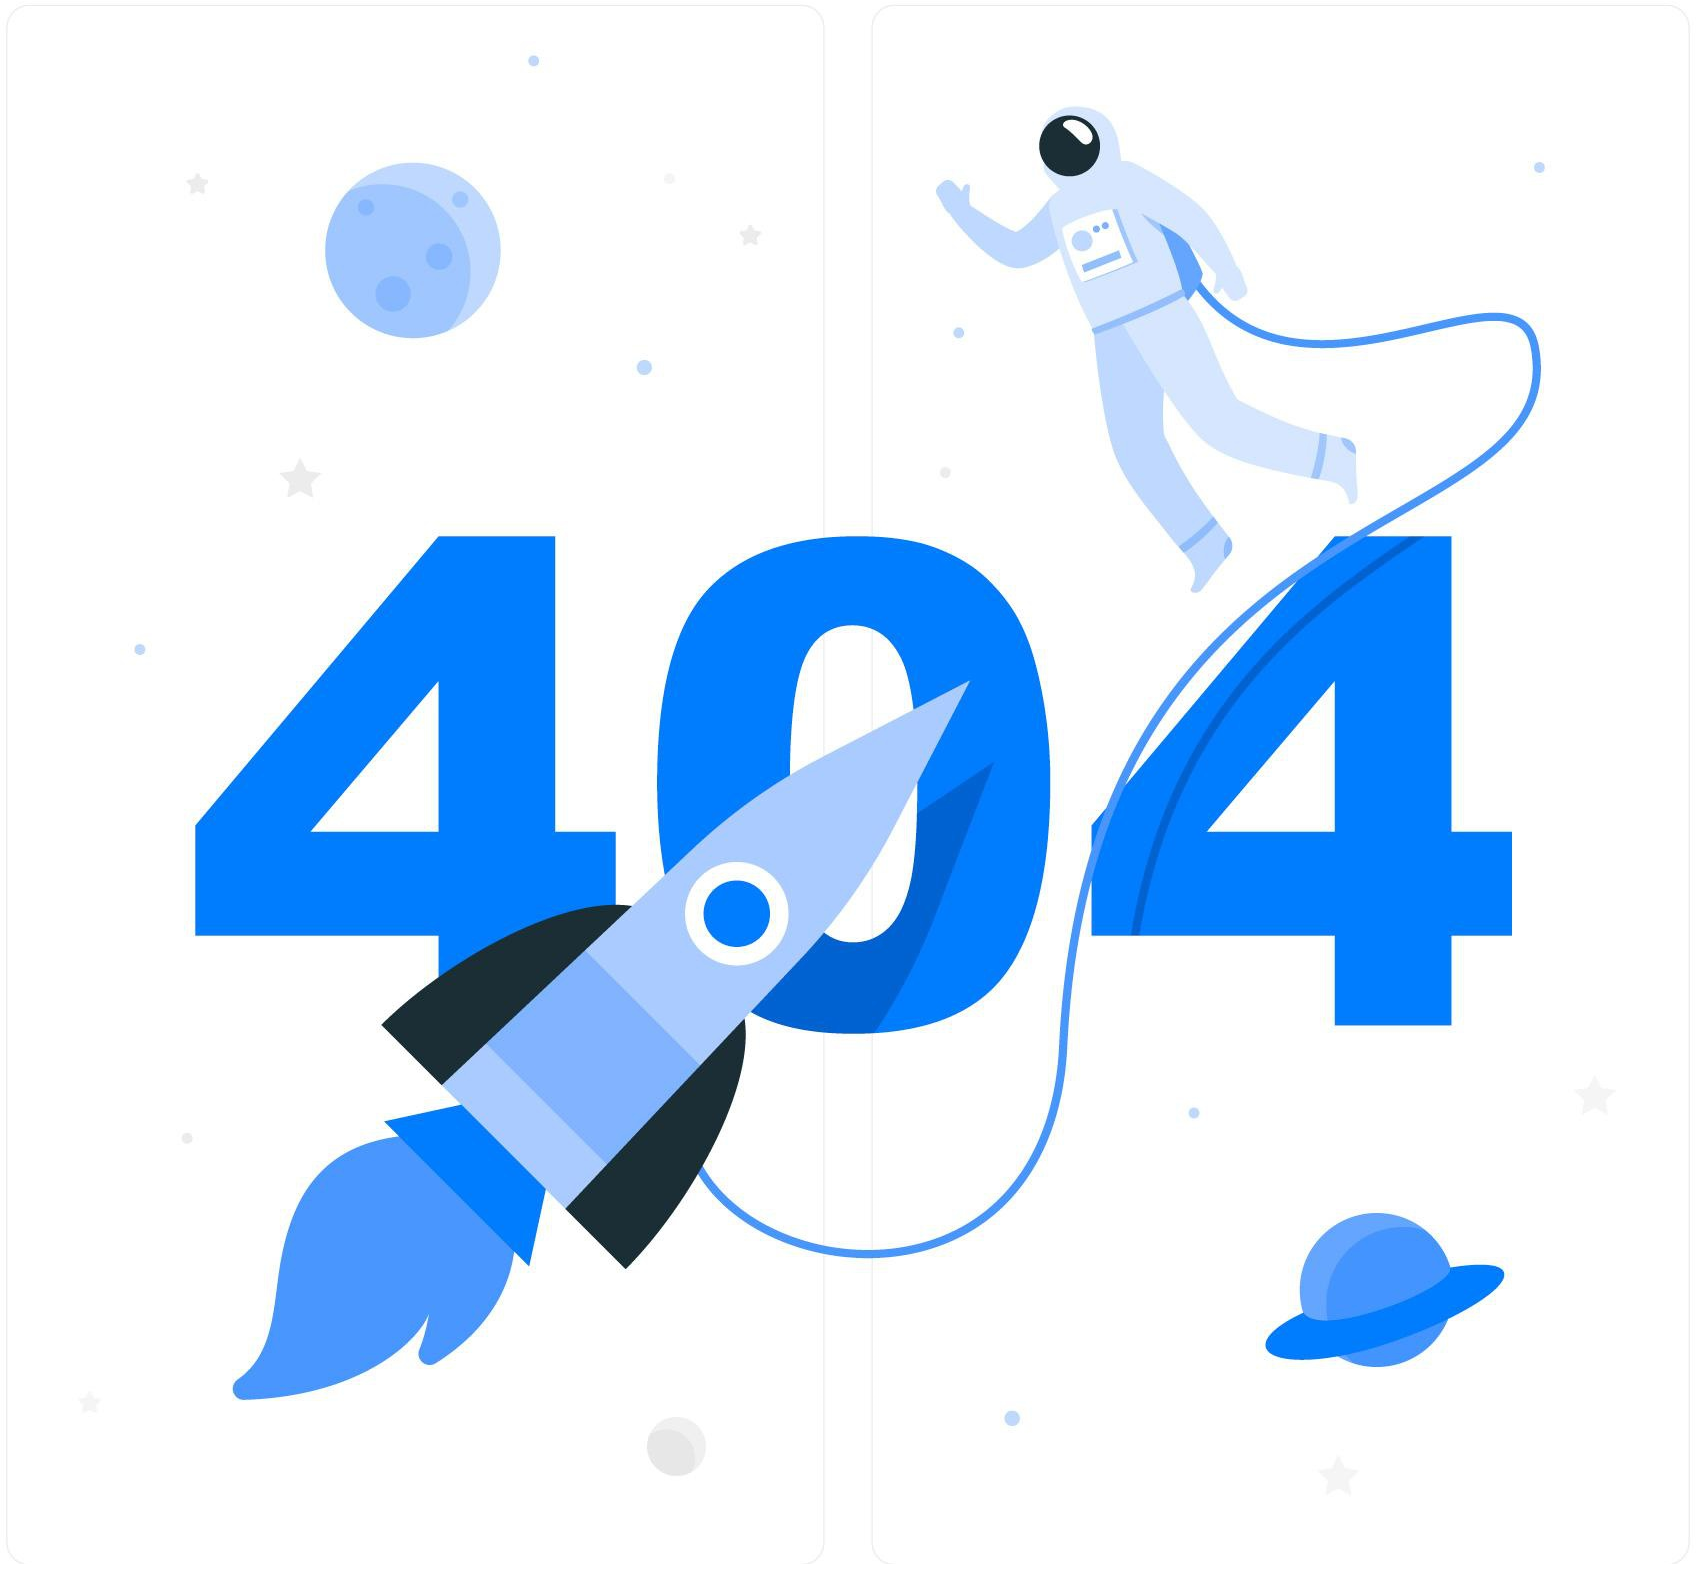
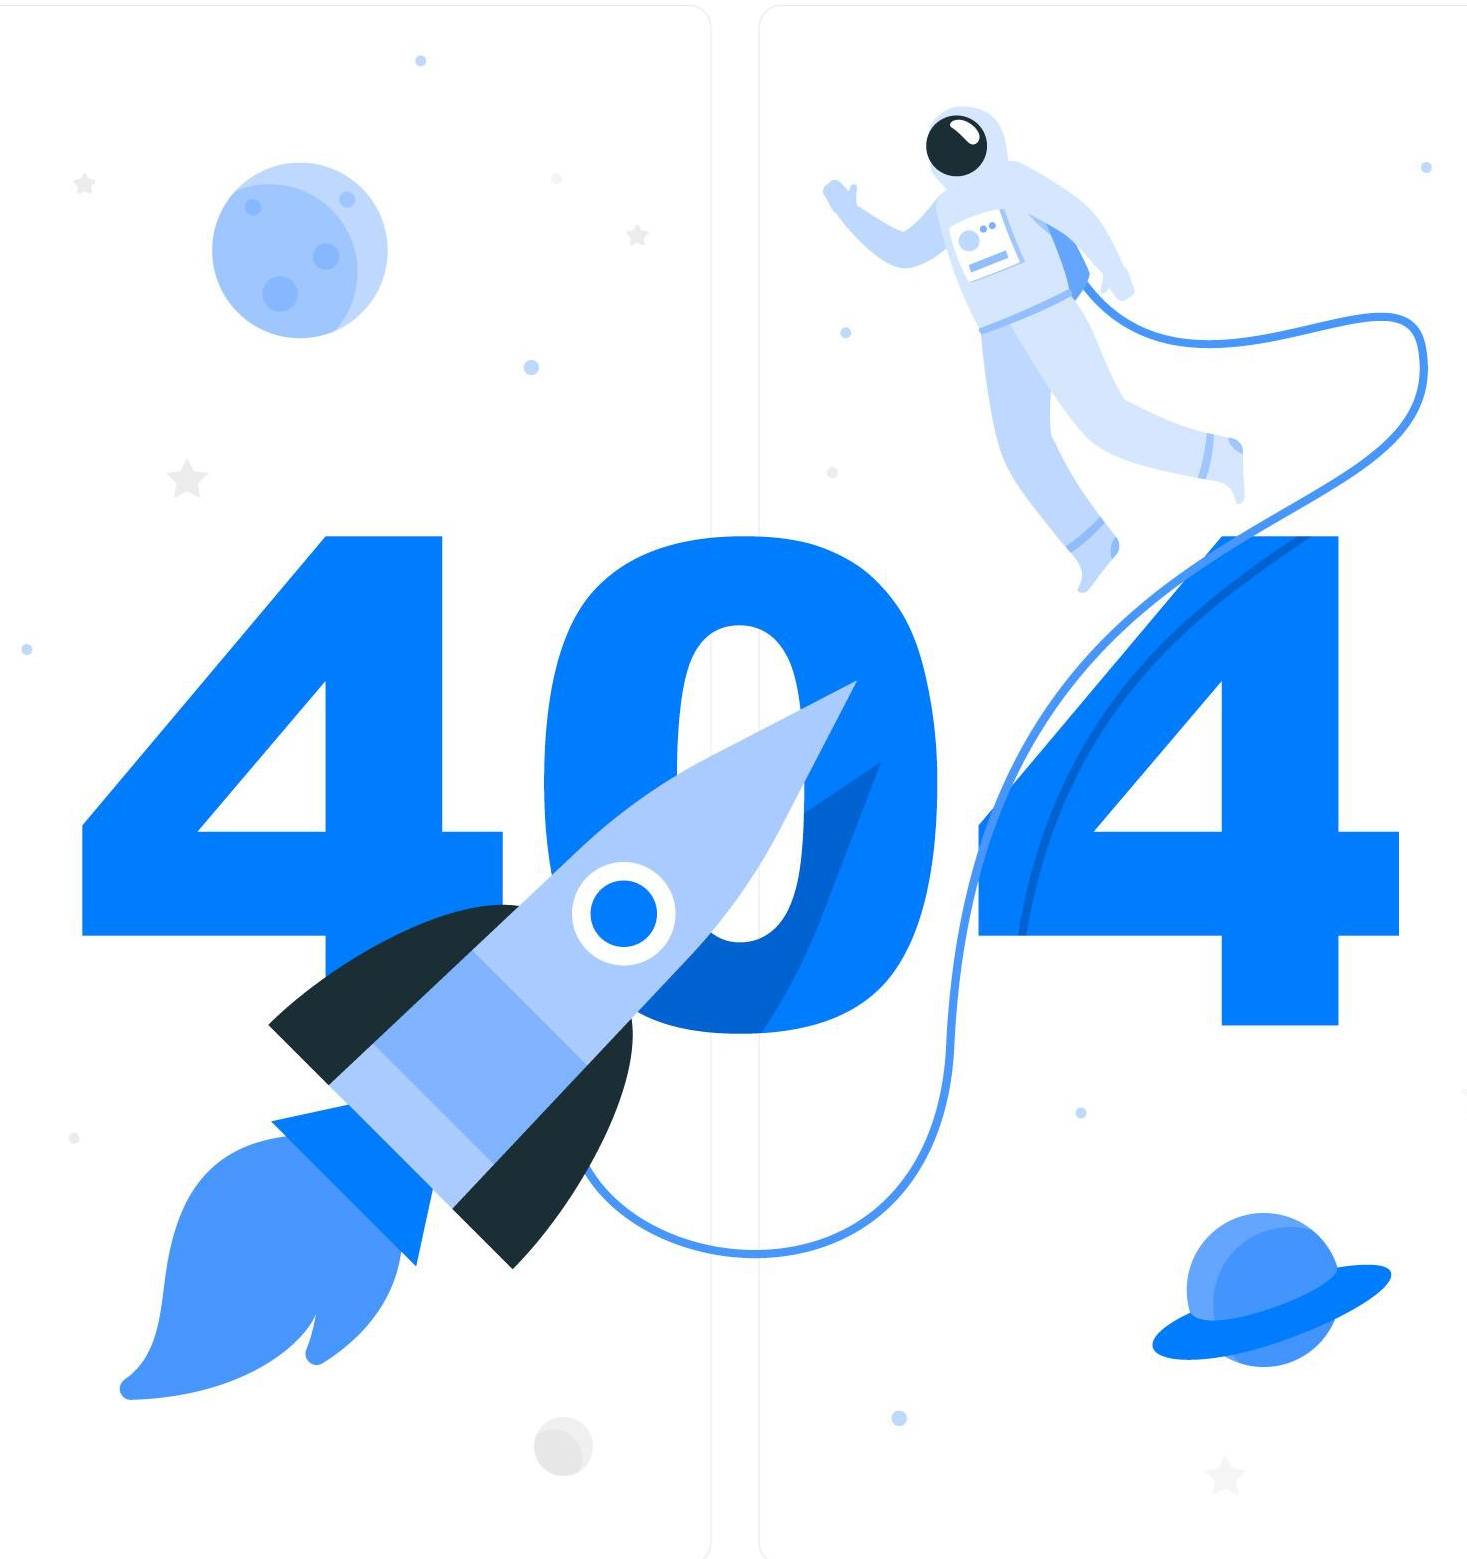
notFound page style changed2

diff --git a/src/pages/NotFound.jsx b/src/pages/NotFound.jsx
@@ -6,7 +6,7 @@ function NotFound() {
   return (
     <>
       <Navbar />
-      <div className="mx-auto mt-5 flex max-h-dvh max-w-[800px] select-none flex-col items-center sm:h-auto">
+      <div className="mx-auto mt-5 flex max-h-dvh max-w-[800px] select-none flex-col items-center sm:h-auto px-1">
         <h1 className="mb-1 text-2xl font-bold text-[#095373] md:text-3xl">
           !Error
         </h1>
@@ -14,7 +14,7 @@ function NotFound() {
         <img
           src={notFound}
           alt="notFound"
-          className="md:max-h-[500px] max-h-[240px] select-none"
+          className="md:max-h-[500px] select-none"
           draggable="false"
         />
         <div className="mb-5 text-lg font-semibold text-[#095373] md:text-xl">
